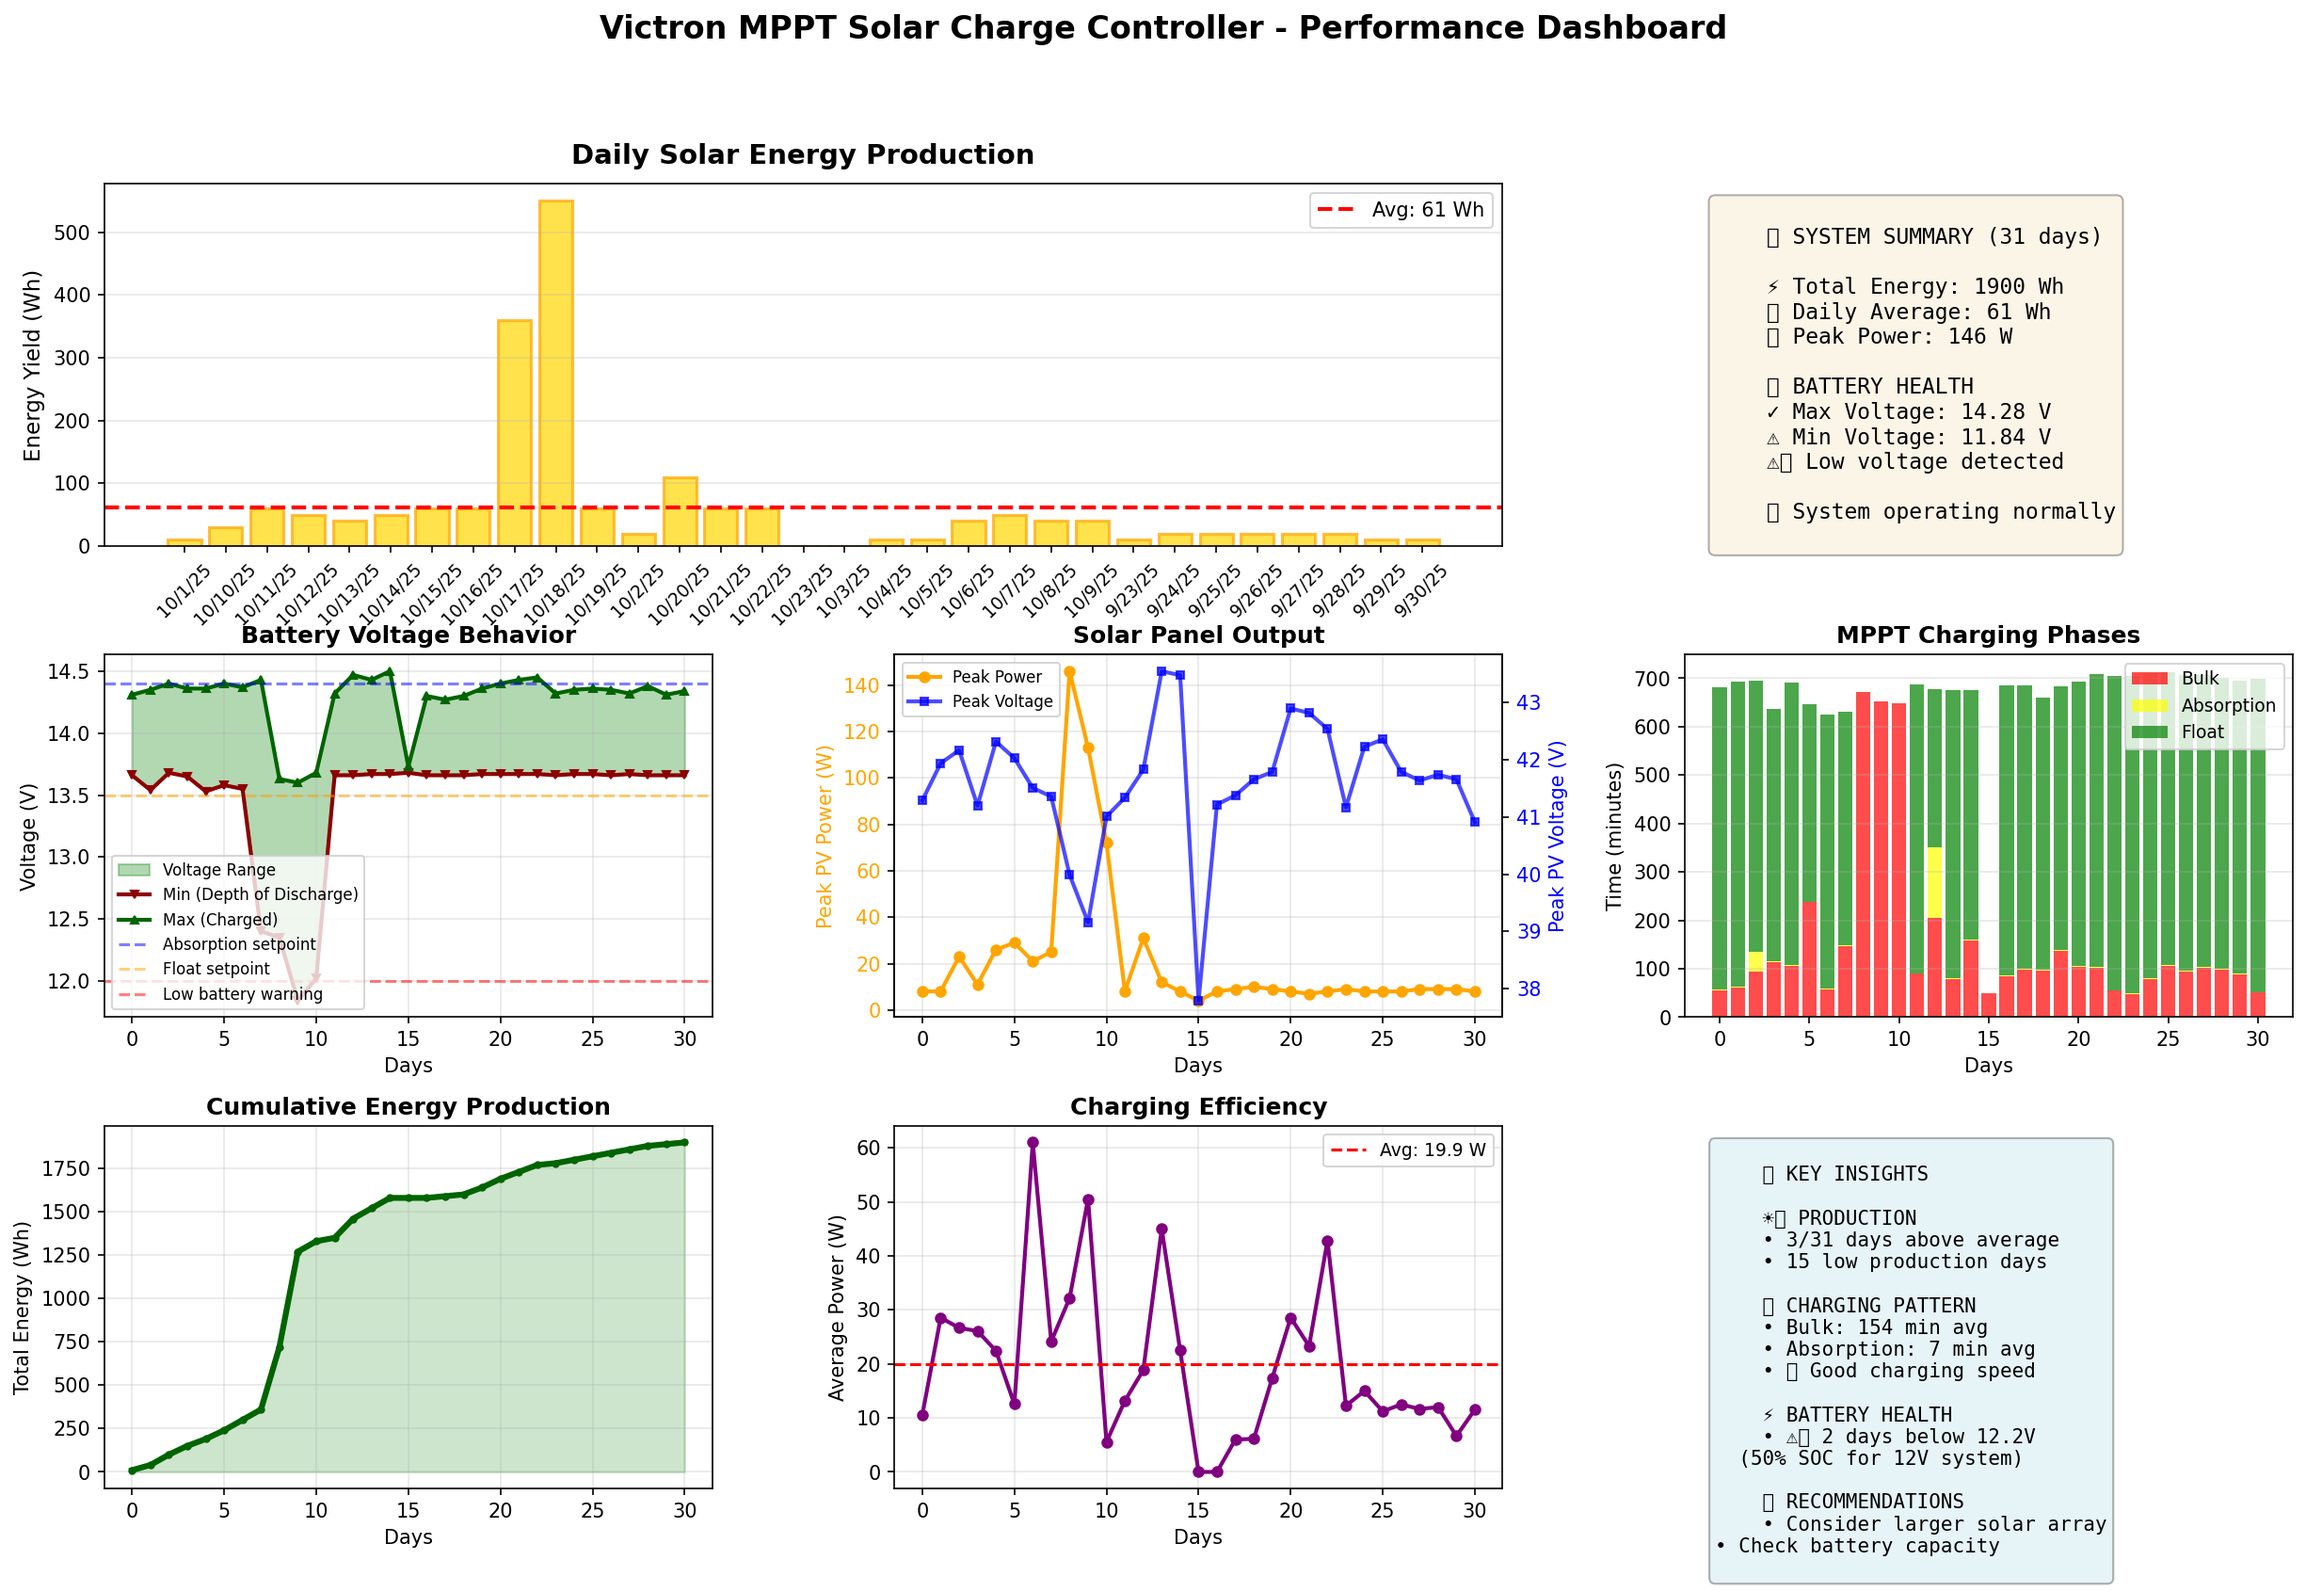
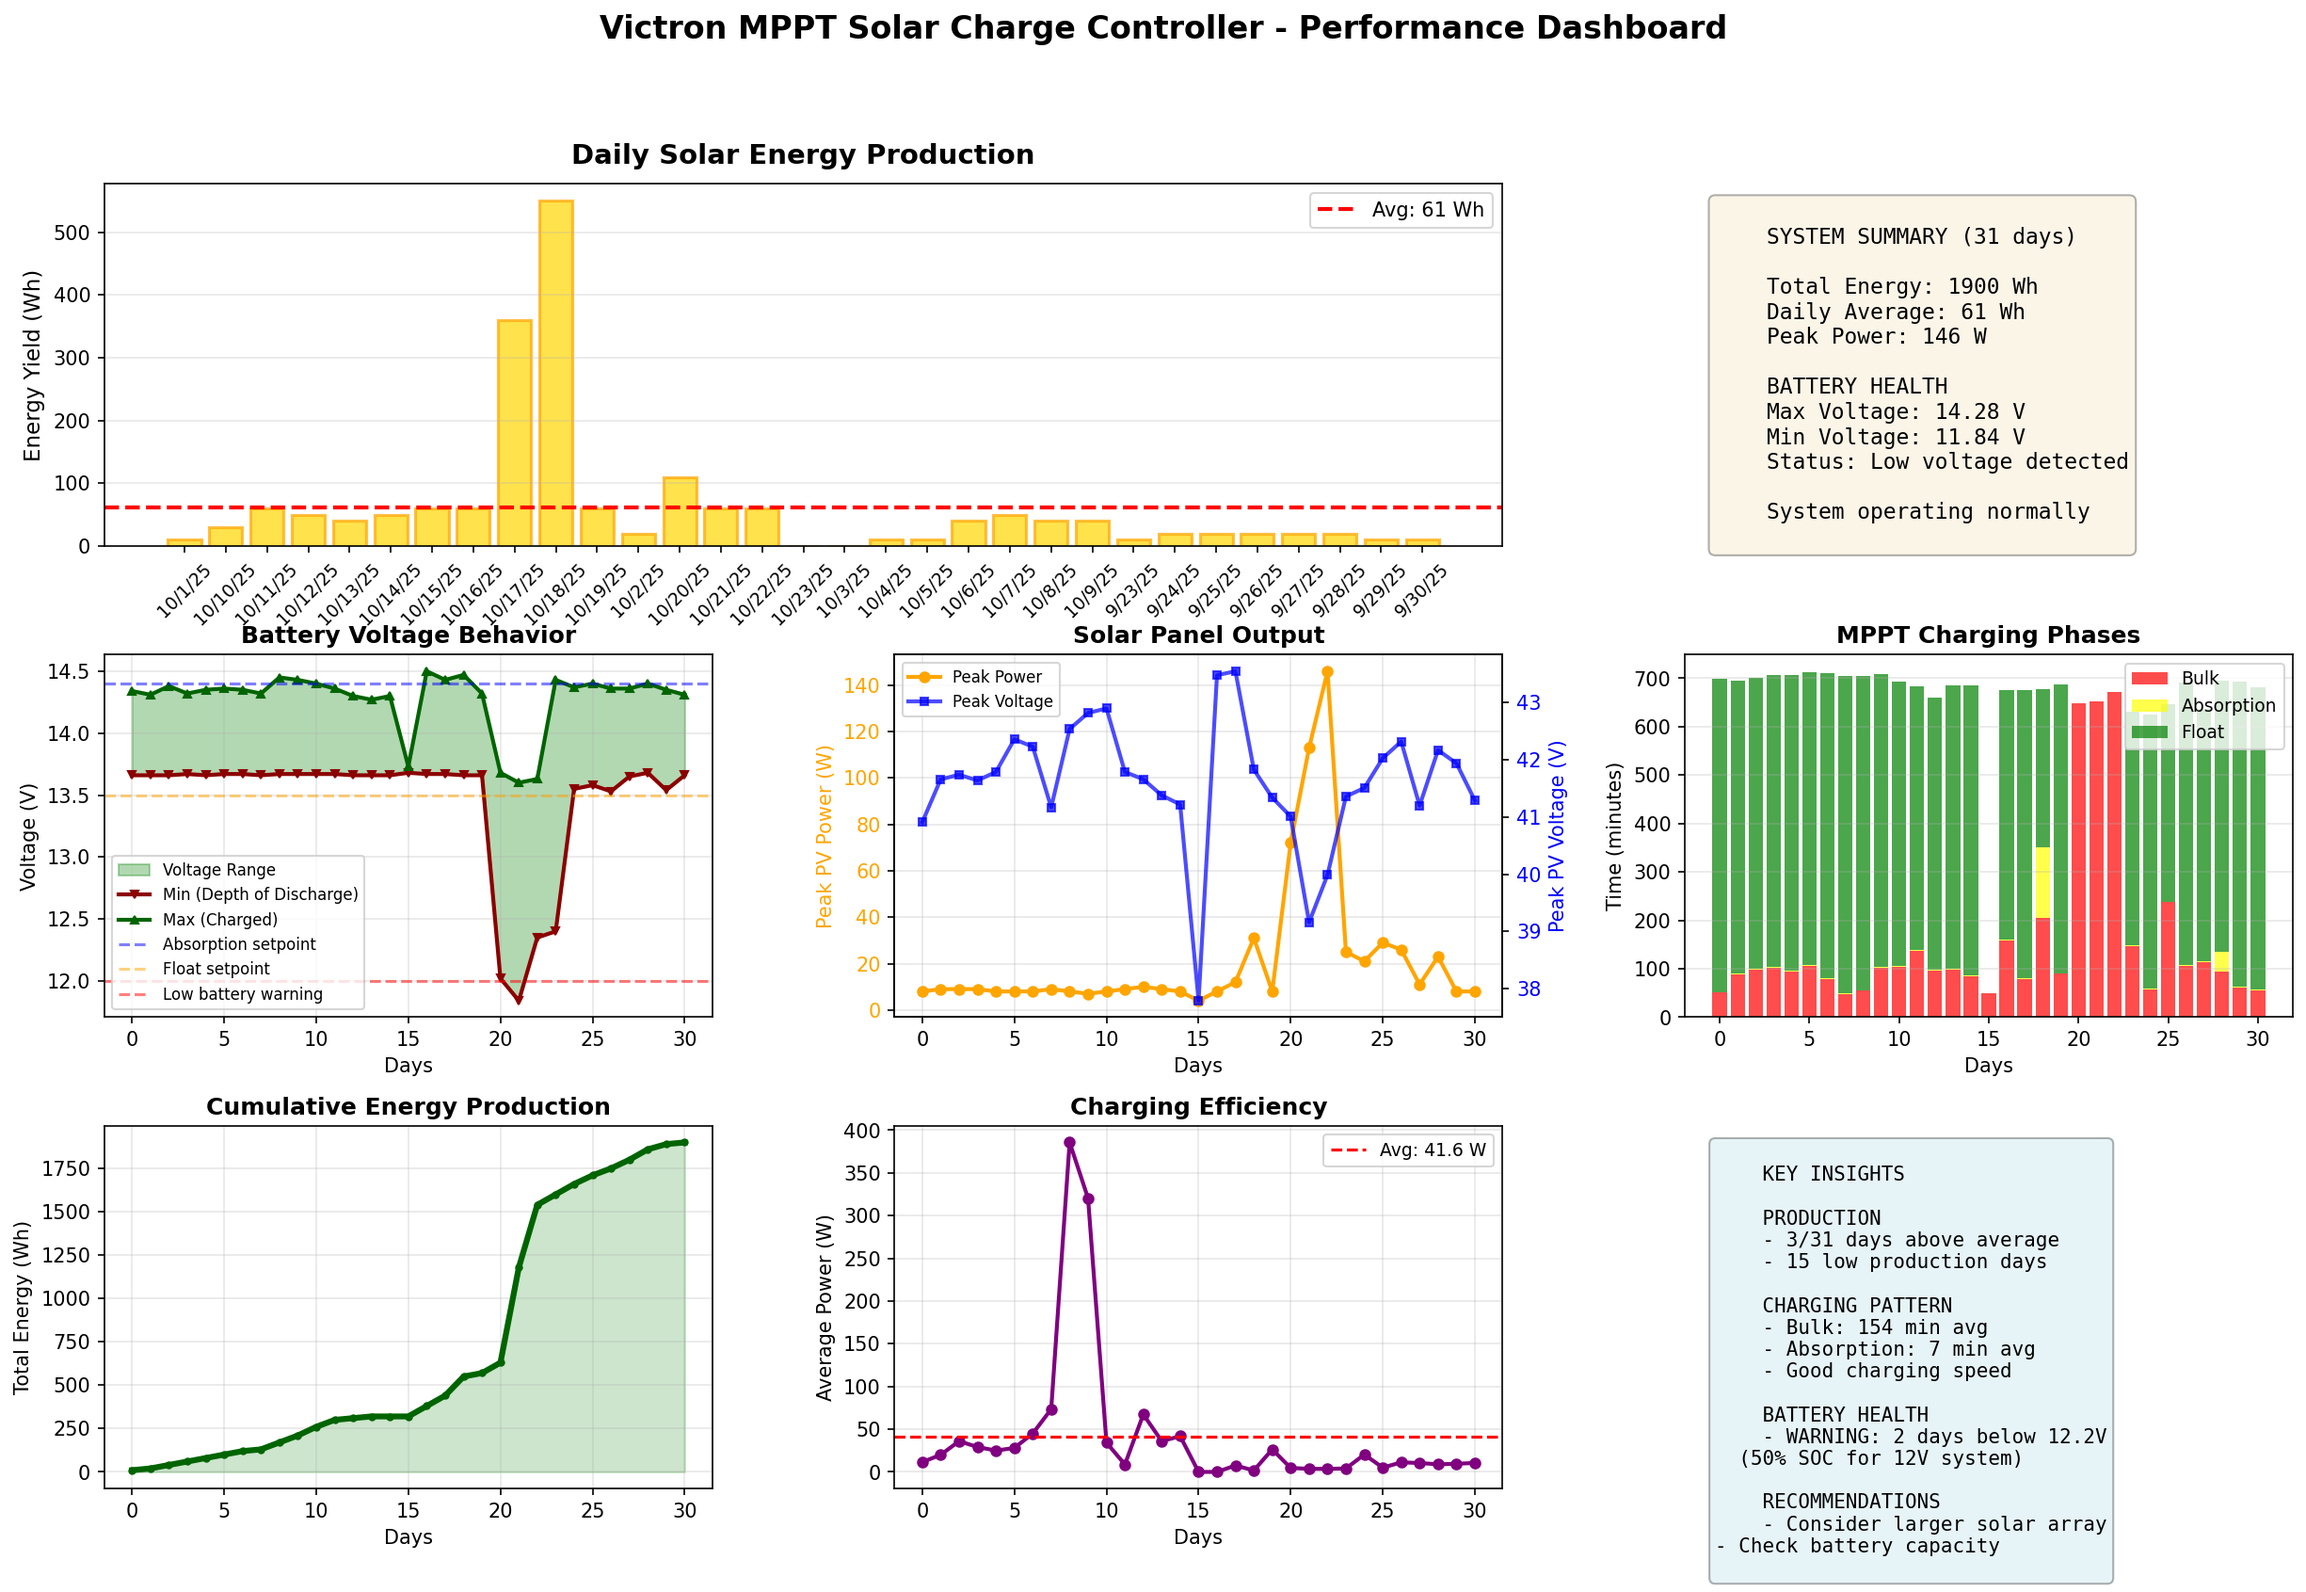
fix: reverse date order for chronological display and remove emojis
- Sort dates descending then reverse lists for proper time series display
- Replace emoji symbols with plain text in summary and insights panels
- Fixes font rendering warnings for matplotlib monospace font

diff --git a/victron-python/src/visualization.py b/victron-python/src/visualization.py
@@ -32,8 +32,10 @@ def create_comprehensive_dashboard(df: pl.DataFrame, save_path: str | Path | Non
     logger.info("Creating comprehensive solar dashboard")
 
     # Sort by date (oldest first for time series)
-    df = df.sort("Date")
+    df = df.sort("Date", descending=True)
     dates = df["Date"].to_list()
+    # Reverse dates for chronological order (oldest to newest)
+    dates.reverse()
 
     # Create figure with custom layout
     fig = plt.figure(figsize=(20, 12))
@@ -42,6 +44,7 @@ def create_comprehensive_dashboard(df: pl.DataFrame, save_path: str | Path | Non
     # Panel 1: Daily Energy Yield (top left, spans 2 columns)
     ax1 = fig.add_subplot(gs[0, :2])
     yields = df["Yield(Wh)"].to_list()
+    yields.reverse()  # Reverse to match chronological dates
     avg_yield = df["Yield(Wh)"].mean()
     ax1.bar(dates, yields, alpha=0.7, color="gold", edgecolor="orange", linewidth=1.5)
     ax1.axhline(
@@ -63,18 +66,18 @@ def create_comprehensive_dashboard(df: pl.DataFrame, save_path: str | Path | Non
     days = df.height
 
     summary_text = f"""
-    📊 SYSTEM SUMMARY ({days} days)
+    SYSTEM SUMMARY ({days} days)
 
-    ⚡ Total Energy: {total_yield:.0f} Wh
-    📈 Daily Average: {avg_yield:.0f} Wh
-    🔆 Peak Power: {max_power:.0f} W
+    Total Energy: {total_yield:.0f} Wh
+    Daily Average: {avg_yield:.0f} Wh
+    Peak Power: {max_power:.0f} W
 
-    🔋 BATTERY HEALTH
-    ✓ Max Voltage: {avg_max_voltage:.2f} V
-    ⚠ Min Voltage: {min_min_voltage:.2f} V
-    {"✅ Healthy" if min_min_voltage > 12.0 else "⚠ Low voltage detected"}
+    BATTERY HEALTH
+    Max Voltage: {avg_max_voltage:.2f} V
+    Min Voltage: {min_min_voltage:.2f} V
+    Status: {"Healthy" if min_min_voltage > 12.0 else "Low voltage detected"}
 
-    {"⚠ WARNING: Battery may be\n    undercharged or oversized\n    for solar capacity" if total_yield < 500 else "✅ System operating normally"}
+    {"WARNING: Battery may be undercharged\nor oversized for solar capacity" if total_yield < 500 else "System operating normally"}
     """
     ax2.text(
         0.05,
@@ -195,22 +198,22 @@ def create_comprehensive_dashboard(df: pl.DataFrame, save_path: str | Path | Non
     low_battery_days = sum(1 for v in min_v if v < 12.2)
 
     insights_text = f"""
-    💡 KEY INSIGHTS
+    KEY INSIGHTS
 
-    ☀ PRODUCTION
-    • {days_good_production}/{days} days above average
-    • {days_low_production} low production days
+    PRODUCTION
+    - {days_good_production}/{days} days above average
+    - {days_low_production} low production days
 
-    🔋 CHARGING PATTERN
-    • Bulk: {avg_bulk_time:.0f} min avg
-    • Absorption: {avg_absorption_time:.0f} min avg
-    {"• ⚠ Long bulk times suggest\n  undersized solar array" if avg_bulk_time > 300 else "• ✅ Good charging speed"}
+    CHARGING PATTERN
+    - Bulk: {avg_bulk_time:.0f} min avg
+    - Absorption: {avg_absorption_time:.0f} min avg
+    {"- WARNING: Long bulk times suggest\n  undersized solar array" if avg_bulk_time > 300 else "- Good charging speed"}
 
-    ⚡ BATTERY HEALTH
-    {"• ⚠ " + str(low_battery_days) + " days below 12.2V\n  (50% SOC for 12V system)" if low_battery_days > 0 else "• ✅ Good voltage maintained"}
+    BATTERY HEALTH
+    {"- WARNING: " + str(low_battery_days) + " days below 12.2V\n  (50% SOC for 12V system)" if low_battery_days > 0 else "- Good voltage maintained"}
 
-    📈 RECOMMENDATIONS
-    {"• Consider larger solar array\n• Check battery capacity" if avg_yield < 200 else "• System performing well\n• Monitor during winter"}
+    RECOMMENDATIONS
+    {"- Consider larger solar array\n- Check battery capacity" if avg_yield < 200 else "- System performing well\n- Monitor during winter"}
     """
 
     ax8.text(
